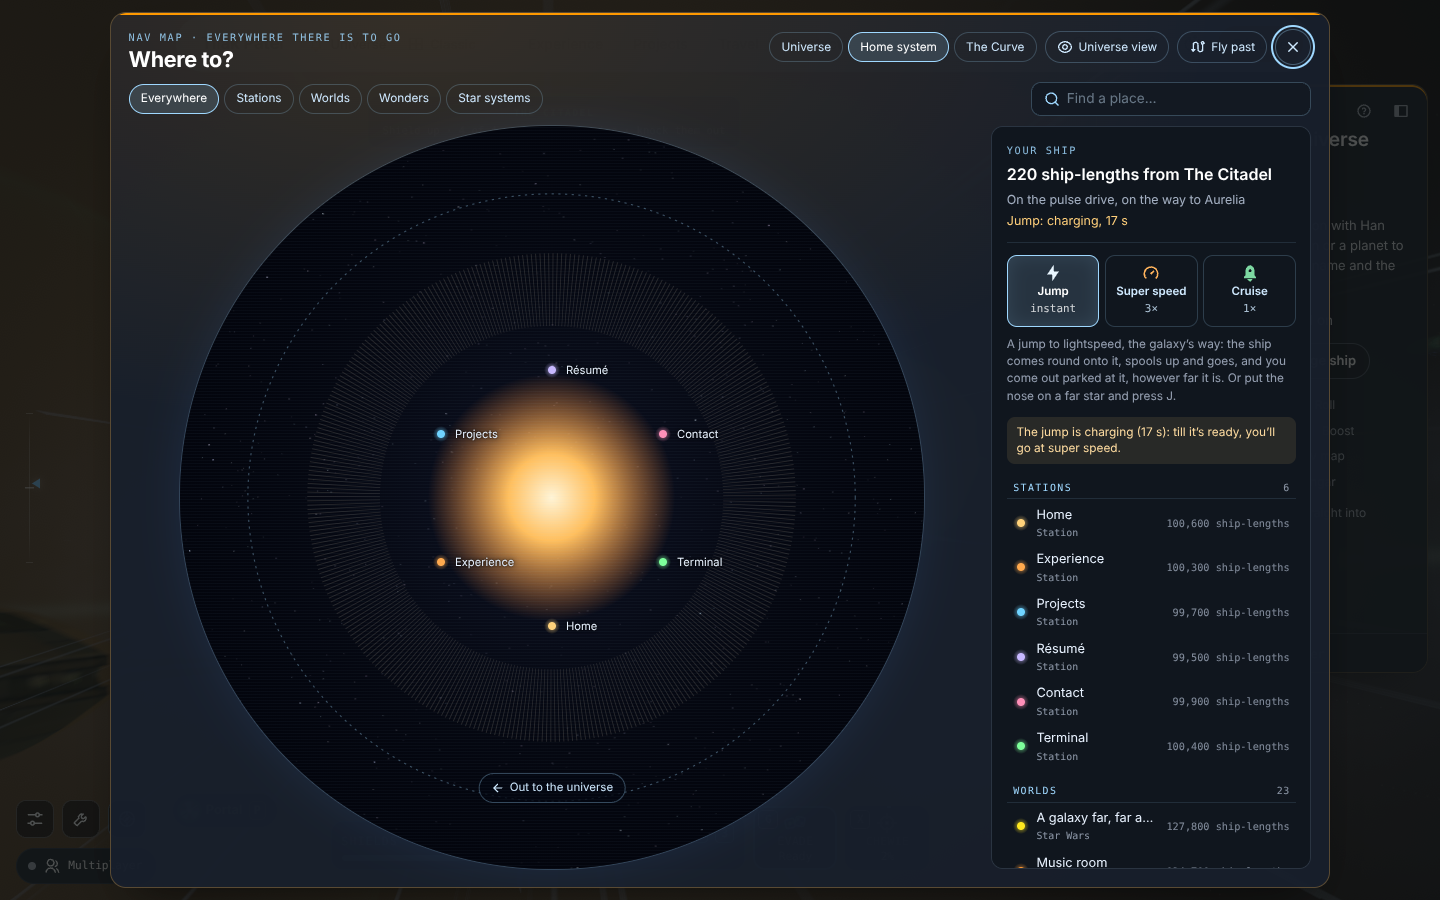
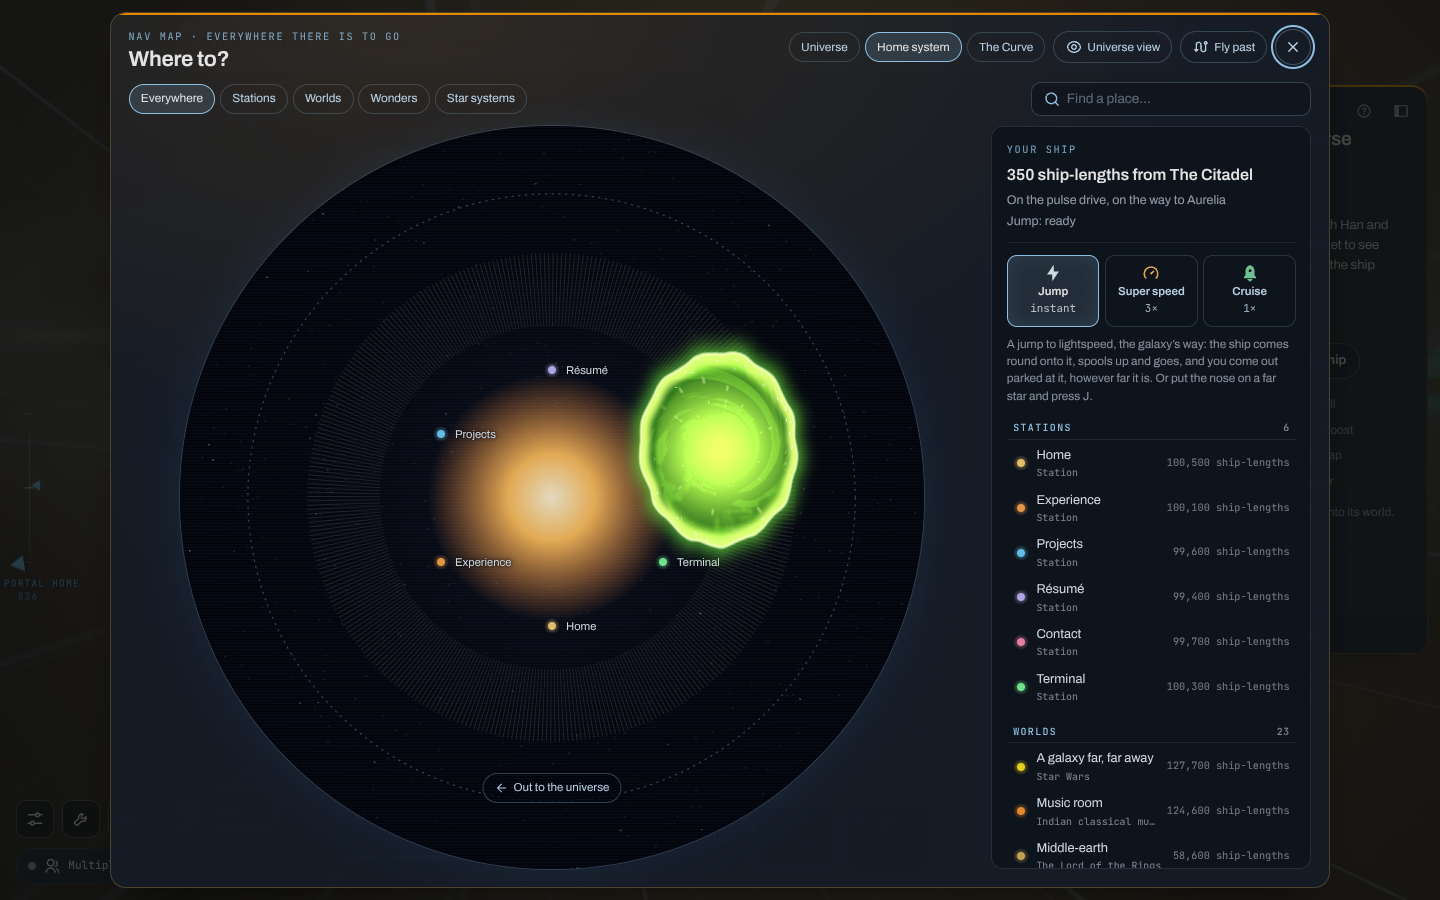
Nav map check: the before shots taken again with the fonts served, and failed loads named
The first before shots were served by a plain npx vite from a checkout
whose node_modules is a link, and it refused the font files from there
with 403s. So every label on main's map was drawn in a fallback face,
and label width is what this lane changes. They are taken again through
a throwaway config that extends the checkout's own and allows the linked
folder. Archivo comes back 200, and the run printed no page errors. The
README gives that config and its command, and the after shots go through
the same server.

The check now names each failed load by its URL. The console text alone
is the same for every file, so a 403 on a chunk printed like one on a
font. A frame waited for before a shot gives up after two minutes with
a clear failure, where a hidden or throttled page used to hang it for
ever. The mini-map's two element shots go through the same shot() as the
rest, so they get the JPEG fallback and no stale shot of the other kind.

Claude-Session: https://claude.ai/code/session_01WMAnbYdGzuPTr2wCyHMJds

diff --git a/docs/superpowers/evidence/endless-universe-6a-map/README.md b/docs/superpowers/evidence/endless-universe-6a-map/README.md
@@ -5,15 +5,47 @@ The nav map and the mini-map as they are on `main`, before the lane changes them
 ## How the before shots were taken
 
 - **When:** 2026-10-24.
-- **What:** `main` at `cc5e2eaf` (“Merge pull request #1237”), served from a checkout of it: `npx vite --port 5185 --strictPort --host 127.0.0.1`.
-- **The check:** the lane’s `scripts/navmap-check.mjs` (its base URL and its `minimap` and `far` modes are the lane’s first commit), run against that server in all four modes:
+- **What:** `main` at `cc5e2eaf` (“Merge pull request #1237”), served from a checkout of it by the server below, the fonts served too.
+- **The check:** the lane’s `scripts/navmap-check.mjs` (its base URL and its `minimap` and `far` modes are the lane’s first commit), run against that server in all four modes, into a folder outside the repo, and the shots kept here copied in:
 
   ```
-  BASE=http://127.0.0.1:5185 OUT=lab/navmap/before CHROME=<chromium> node scripts/navmap-check.mjs
+  BASE=http://127.0.0.1:5185 OUT=<a folder outside the repo> CHROME=<chromium> node scripts/navmap-check.mjs
   ```
 
 - **The browser:** headless Chrome for Testing 153, WebGL in software (SwiftShader through ANGLE), `?quality=low`. Desktop 1440 × 900, phone 390 × 844 with touch, the flat map 1280 × 800.
-- **The fonts:** that checkout’s `node_modules` is a link to another folder, outside the server’s root, so the server refused the font files of the two faces it serves from there, several 403s: Archivo’s (`archivo-latin-wdth-normal.woff2`) and JetBrains Mono’s 400 and 500, each as `.woff2` and `.woff`, five files, asked for again on every page load. The words in those faces are in the fallback face. The page errors the check printed are these 403s, but it printed only the first eight, so that run doesn’t show there was nothing else past them (the check now prints how many there were and each different one). The after shots are to be served the same way, so the two compare, and the 403s will stay in that run’s errors. A run that is to show no page errors needs a server allowed the linked `node_modules` (`server.fs.allow`, in a throwaway config that extends the repo’s).
+- **The ship’s start:** `ship.js`’s `startAt()` picks one of its starts at random, so the ship opens somewhere else on each run: by Halcyon in `1-navmap` and `2-picked`, by The Lantern on the phone. Its marker and the panel’s first line move with it; the rest of the map doesn’t.
+
+### The server, and the fonts
+
+A checkout whose `node_modules` is a link to another folder, as the lane’s worktrees are, has a plain `npx vite` refuse the files it serves from there that aren’t modules. The fonts are such files: the two faces the site takes from `@fontsource`, Archivo (`archivo-latin-wdth-normal.woff2`) and JetBrains Mono’s 400 and 500 (each as `.woff2` and `.woff`), five files, each a 403 on every page load, and the words in those faces drawn in a fallback face. The first before shots were taken so, and showed the map’s labels in the wrong face. These were taken again with the fonts served.
+
+The server is the checkout’s own `vite.config.js` with the linked folder allowed, from a throwaway config outside the repo. It keeps its own cache of optimised deps, beside it, so it doesn’t share the linked folder’s with another server:
+
+```js
+// vite.fs.config.mjs, anywhere outside the repo
+import { realpathSync } from 'node:fs';
+import { createRequire } from 'node:module';
+import { basename, join } from 'node:path';
+import { fileURLToPath, pathToFileURL } from 'node:url';
+
+const root = process.cwd();
+// (loaded as they are, not bundled into this file: vite from the checkout's node_modules)
+const load = (file) => import(pathToFileURL(file).href);
+const { mergeConfig, searchForWorkspaceRoot } = await load(createRequire(join(root, 'package.json')).resolve('vite'));
+const { default: base } = await load(join(root, 'vite.config.js'));
+export default mergeConfig(base, {
+  cacheDir: fileURLToPath(new URL(`./vite-cache/${basename(root)}`, import.meta.url)),
+  server: { fs: { allow: [searchForWorkspaceRoot(root), realpathSync(join(root, 'node_modules'))] } },
+});
+```
+
+Run from the checkout:
+
+```
+npx vite --config <that file> --port 5185 --strictPort --host 127.0.0.1
+```
+
+Through it Archivo’s file comes back 200, not 403. The check prints every different page error, a failed load with its URL, and this run printed `no page errors`: its full list of errors is empty. The after shots are taken through the same server, from the lane’s worktree, so the before and after are drawn in the same faces, and Task 10’s `no page errors` can hold.
 
 The check’s shots of the flights (`3-jumping`, `4-after-jump`, `6-super-to-aurelia`) and `5-charging` (the portal’s swirl over the chart, from the failed Citadel jump below) show nothing this lane changes, so they aren’t kept.
 
@@ -32,7 +64,7 @@ The check’s shots of the flights (`3-jumping`, `4-after-jump`, `6-super-to-aur
 | `12-minimap-teaser` | Home’s teaser | ![](before/12-minimap-teaser.png) | |
 | `13-far-ship` | The ship two sectors out (x 250,000): no ship on the chart | ![](before/13-far-ship.png) | |
 
-`7-home-system` was shot on `main` with the ship where the failed Citadel step (below) left it: in the Rick and Morty sector, 220 ship-lengths from The Citadel, on the pulse drive to Aurelia, the jump charging (17 s). So no ship marker is expected on the Home chart in the before shot. Once the Citadel step works, the after shot starts from another place, and the two won’t compare like for like there.
+`7-home-system` was shot on `main` with the ship where the failed Citadel step (below) left it: in the Rick and Morty sector, 350 ship-lengths from The Citadel, on the pulse drive to Aurelia, the jump ready. So no ship marker is expected on the Home chart in the before shot. Once the Citadel step works, the after shot starts from another place, and the two won’t compare like for like there.
 
 ## The checks on `main`
 
@@ -40,7 +72,7 @@ The check’s shots of the flights (`3-jumping`, `4-after-jump`, `6-super-to-aur
 
 - `FAIL the go button reads “Jump to The Citadel”`
 - `FAIL the ship’s out at The Citadel on the first frame past the flash (null)`
-- `FAIL the map says where you are and that the drive's charging` (it read “540 ship-lengths from The Citadel · On the pulse drive, on the way to The Citadel · Jump: charging, 65 s”)
+- `FAIL the map says where you are and that the drive's charging` (it read “400 ship-lengths from The Portal Home · On the pulse drive, on the way to The Citadel · Jump: charging, 63 s”)
 - `FAIL with the drive charging, it says so and goes at super speed`
 - `FAIL still on its way out to Aurelia with the selection cleared (rmportal-back)`
 
